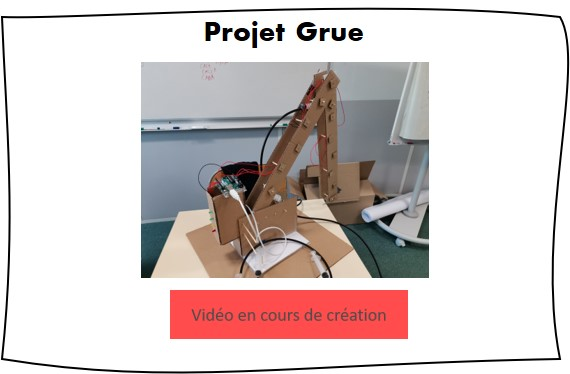
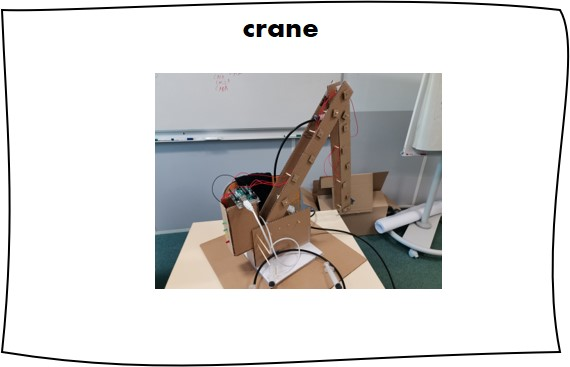
description projets

diff --git a/index.html b/index.html
@@ -72,11 +72,14 @@
     <div class="container">
       <div class="header-content">
         <h1><span class="typed"></span></h1>
-        <p>back end developeur, future engineer</p>
+        <p style="color:#000;">I am looking for an internship from January 6 to April 9, 2020 </p>
+		<p class="test"> in object-oriented programming or mobile development </p>
 
         <ul class="list-unstyled list-social">
           <li><a href="https://www.facebook.com/anatole.couasnon"><i class="ion-social-facebook"></i></a></li>
           <li><a href="https://www.instagram.com/anatole_csn/"><i class="ion-social-instagram"></i></a></li>
+		  <li><a href="https://www.linkedin.com/in/anatole-couasnon-65b700159/"><i class="ion-social-linkedin"></i></a></li>
+		  
         </ul>
       </div>
     </div>
@@ -101,7 +104,7 @@
           <div class="about-descr">
 
             <p class="p-heading">I am a back end developer, I like object-oriented and mobile development</p>
-            <p class="separator">I am in 3rd year at CESI engineer specializing in computer science. I have been passionate about computers since high school, I discover this discipline through associative, personal or professional projects.
+            <p class="separator gray">I am in 3rd year at CESI engineer specializing in computer science. I have been passionate about computers since high school, I discover this discipline through associative, personal or professional projects.
 				I code mainly in Java, but also in python, C# and native android. I plan to start working on angular and ionic very soon.
 				I am a former archer athlete registered on the "young French hopeful" lists. Apart from computer science I like weight training, fantastic readings,
 				woodworking and many other things that you will have the opportunity to discover if you get to know me! ! ;)  </p>
@@ -206,66 +209,66 @@
           <div class="portfolio-container">
 
             <div class="col-lg-4 col-md-6 portfolio-thumbnail all poo webdesign">
-              <a href="https://www.youtube.com/watch?v=e9RheX8kCL0&t=1s" onClick="window.open(this.href,'popup','location=no');return false;">
-                <img src="images/portfolio/Snagli.jpg" alt="img">
-              </a>
+				<a class="popup-img" href="images/portfolio/descrSnagli.png" onClick="window.open('https://www.youtube.com/watch?v=e9RheX8kCL0&t=1s','popup','location=no');return false;">
+					<img src="images/portfolio/Snagli.jpg" alt="img">
+				</a>
             </div>
 			
 			<div class="col-lg-4 col-md-6 portfolio-thumbnail all poo various webdesign" >
-              <a href="https://www.youtube.com/watch?v=UZVKnWe3COs" onClick="window.open(this.href,'popup','location=no');return false;">
-                <img src="images/portfolio/FridgeSensor.jpg" alt="img">
-              </a>
+				<a class="popup-img" href="images/portfolio/descrFridge.png" onClick="window.open('https://www.youtube.com/watch?v=UZVKnWe3COs','popup','location=no');return false;">
+					<img src="images/portfolio/FridgeSensor.jpg" alt="img">
+				</a>
             </div>
 			
 			<div class="col-lg-4 col-md-6 portfolio-thumbnail all poo webdesign" >
-              <a href="https://www.youtube.com/watch?v=Mbu4ZqDn-TI" onClick="window.open(this.href,'popup','location=no');return false;">
-                <img src="images/portfolio/Lorann.jpg" alt="img">
-              </a>
+				<a class="popup-img" href="images/portfolio/descrLorann.png" onClick="window.open('https://www.youtube.com/watch?v=Mbu4ZqDn-TI','popup','location=no');return false;">
+					<img src="images/portfolio/Lorann.jpg" alt="img">
+				</a>
             </div>
 			
 			<div class="col-lg-4 col-md-6 portfolio-thumbnail all mobile various webdesign" >
-              <a class="popup-img" href="images/portfolio/NotCreatedYet.png">
+              <a class="popup-img" href="images/portfolio/descrLunyver.png">
                 <img src="images/portfolio/LUNYVER.jpg" alt="img">
               </a>
             </div>
 
 			<div class="col-lg-4 col-md-6 portfolio-thumbnail all mobile webdesign" >
-              <a class="popup-img" href="images/portfolio/NotCreatedYet.png">
+              <a class="popup-img" href="images/portfolio/descrArchery.png">
                 <img src="images/portfolio/TirArc.jpg" alt="img">
               </a>
             </div>
 			
 			
 			<div class="col-lg-4 col-md-6 portfolio-thumbnail all various webdesign" >
-              <a class="popup-img" href="images/portfolio/NotCreatedYet.png">
+              <a class="popup-img" href="images/portfolio/descrGrue.png">
                 <img src="images/portfolio/Grue.jpg" alt="img">
               </a>
             </div>
 			
 			
 			<div class="col-lg-4 col-md-6 portfolio-thumbnail all web webdesign" >
-              <a class="popup-img" href="images/portfolio/NotCreatedYet.png">
+              <a class="popup-img" href="images/portfolio/descrBDE.png">
                 <img src="images/portfolio/Bde.jpg" alt="img">
               </a>
             </div>
 			
 			
 			<div class="col-lg-4 col-md-6 portfolio-thumbnail all poo various webdesign" >
-              <a class="popup-img" href="images/portfolio/NotCreatedYet.png">
+              <a class="popup-img" href="images/portfolio/descrDatas.png">
                 <img src="images/portfolio/Dechiffrage.jpg" alt="img">
               </a>
             </div>
 			
 			
 			<div class="col-lg-4 col-md-6 portfolio-thumbnail all poo webdesign" >
-              <a class="popup-img" href="images/portfolio/NotCreatedYet.png">
+              <a class="popup-img" href="images/portfolio/descrPokémon.png">
                 <img src="images/portfolio/Pokemon.jpg" alt="img">
               </a>
             </div>
 			
 			
 			<div class="col-lg-4 col-md-6 portfolio-thumbnail all various webdesign" >
-              <a class="popup-img" href="images/portfolio/NotCreatedYet.png">
+              <a class="popup-img" href="images/portfolio/descrTableau.png">
                 <img src="images/portfolio/Tableau.jpg" alt="img">
               </a>
             </div>
@@ -277,6 +280,7 @@
 
   </div>
   <!-- End section portfolio -->
+  
 
 
   <!-- start section journal 
@@ -422,13 +426,12 @@
     <div class="container">
       <div class="socials-media text-center">
 
-        <ul class="list-unstyled">
-          <li><a href="#"><i class="ion-social-facebook"></i></a></li>
-          <li><a href="#"><i class="ion-social-twitter"></i></a></li>
-          <li><a href="#"><i class="ion-social-instagram"></i></a></li>
-          <li><a href="#"><i class="ion-social-googleplus"></i></a></li>
-          <li><a href="#"><i class="ion-social-tumblr"></i></a></li>
-          <li><a href="#"><i class="ion-social-dribbble"></i></a></li>
+
+		<ul class="list-unstyled">
+          <li><a href="https://www.facebook.com/anatole.couasnon"><i class="ion-social-facebook"></i></a></li>
+          <li><a href="https://www.instagram.com/anatole_csn/"><i class="ion-social-instagram"></i></a></li>
+		  <li><a href="https://www.linkedin.com/in/anatole-couasnon-65b700159/"><i class="ion-social-linkedin"></i></a></li>
+		  
         </ul>
 
       </div>

diff --git a/js/main.js b/js/main.js
@@ -79,8 +79,8 @@ $(document).ready(function() {
 
   $(function() {
     typed.typed({
-      strings: ["Hey I'm Anatole", "I am looking for an internship from January 6 to April 9, 2020.", "in object-oriented programming", "Or mobile development", "Preferably in an ESN"],
-      typeSpeed: 100,
+      strings: ["Hey I'm Anatole", "I am a french student", "In 3rd year of computer engineering school"],
+      typeSpeed: 80,
       loop: true,
     });
   });
@@ -108,7 +108,7 @@ $(document).ready(function() {
   var magnifPopup = function() {
     $('.popup-img').magnificPopup({
       type: 'image',
-      removalDelay: 300,
+      removalDelay: 3000,
       mainClass: 'mfp-with-zoom',
       gallery: {
         enabled: true

diff --git a/css/style.css b/css/style.css
@@ -100,6 +100,8 @@ p {
   color: #fff;
 }
 
+
+
 .center{
     width: 100%;
     margin: 0 auto;
@@ -108,6 +110,11 @@ p {
     justify-content: space-around;
     display: flex;
     float: none;
+}
+
+.test{
+	color : black;
+	font-weight: 200;
 }
 
 .btn {
@@ -279,8 +286,9 @@ nav ul li a {
   margin-top: 0;
   margin-bottom: 30px;
   text-transform: capitalize;
-  color: #fff;
-  font-weight: 500;
+  color: #000;
+  margin-bottom: 2px;
+  font-weight: 600;
 }
 
 .header-content .list-social li {
